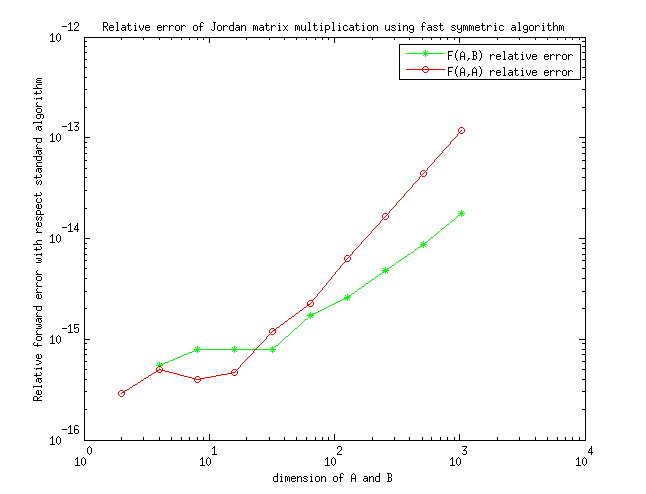
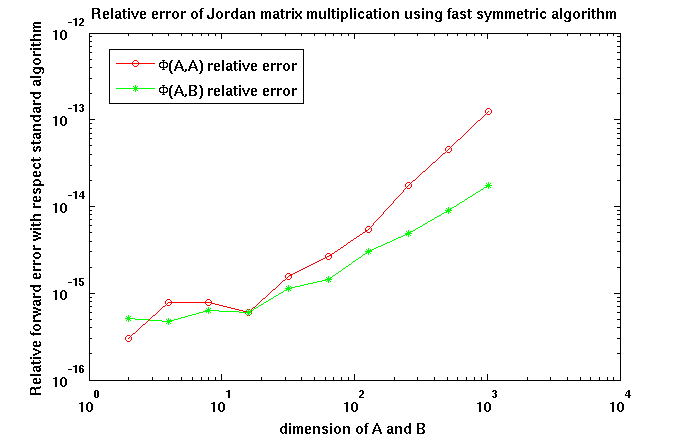
updated numerical tests section

diff --git a/matlab/test_symv.m b/matlab/test_symv.m
@@ -7,24 +7,26 @@ function test_symv(ns)
     if (ns(i) > 1)
       n = ns(i);
       b = rand(n,1)-.5;
-%      A=rand(n,n)-.5;
-      for j=1:n
-        b(j) = (j-1)/(n-1)-.5;% = r(n,1)-.5;
-      end
+      A=rand(n,n)-.5;
+      pA=rand(n,n);
+%      for j=1:n
+%        b(j) = (j-1)/(n-1)-.5;% = r(n,1)-.5;
+%      end
 %      A=ones(n,n)-.5;
-      pA=ones(n,n);
+%      pA=ones(n,n);
 
 %      c_ans = pA*b;
 %      pc_ans = pA*b;
 %    
-%      c = symv(A,b);
-      c = pA*b;
+      c = symv(A,b);
+      c_ans = A*b;
       pc = symv(pA,b);
+      pc_ans = pA*b;
 
-      %rel_err_Ab(i) = norm(c_ans-c)/norm(c_ans);
-      %rel_err_pAb(i) = norm(pc_ans-pc)/norm(pc_ans);
-      rel_err_Ab(i) = norm(c);%/norm(c_ans);
-      rel_err_pAb(i) = norm(pc);%/norm(pc_ans);
+      rel_err_Ab(i) = norm(c_ans-c)/norm(c_ans);
+      rel_err_pAb(i) = norm(pc_ans-pc)/norm(pc_ans);
+      %rel_err_Ab(i) = norm(c);%/norm(c_ans);
+      %rel_err_pAb(i) = norm(pc);%/norm(pc_ans);
     end
   end
 %  set(0,'defaultAxesFontName', 'Arial')
@@ -43,6 +45,6 @@ function test_symv(ns)
 %  set(findall(gcf,'type','text')) 
 %  set(gca,'FontSize',15,'fontWeight','bold')
 %  set(findall(gcf,'type','text'),'FontSize',15,'fontWeight','bold')
-%  set(findall(gcf,'type','axes'),'fontsize',15)
+  set(findall(gcf,'type','axes'),'FontSize',13,'FontWeight','bold')
 %  set(findall(gcf,'type','text'),'fontSize',16) 
 end

diff --git a/matlab/test_sysysy.m b/matlab/test_sysysy.m
@@ -26,9 +26,11 @@ function test_sysysy(ns)
   end
   rel_err_AB
   rel_err_AA
-  loglog(ns,rel_err_AB,'-*g',ns,rel_err_AA,'-or');
-  legend('\Phi(A,B) relative error','\Phi(A,A) relative error')
-  xlabel('dimension of A and B');
-  ylabel('Relative forward error with respect standard algorithm');
-  title('Relative error of Jordan matrix multiplication using fast symmetric algorithm');
+  loglog(ns,rel_err_AA,'-or',ns,rel_err_AB,'-*g');
+  hleg=legend('\Phi(A,A) relative error','\Phi(A,B) relative error')
+  set(hleg,'FontSize',13,'FontWeight','bold')
+  xlabel('dimension of A and B','FontSize',13,'FontWeight','bold');
+  ylabel('Relative forward error with respect standard algorithm','FontSize',13,'FontWeight','bold');
+  title('Relative error of Jordan matrix multiplication using fast symmetric algorithm','FontSize',13,'FontWeight','bold');
+  set(findall(gcf,'type','axes'),'fontSize',13,'FontWeight','bold')
 end
